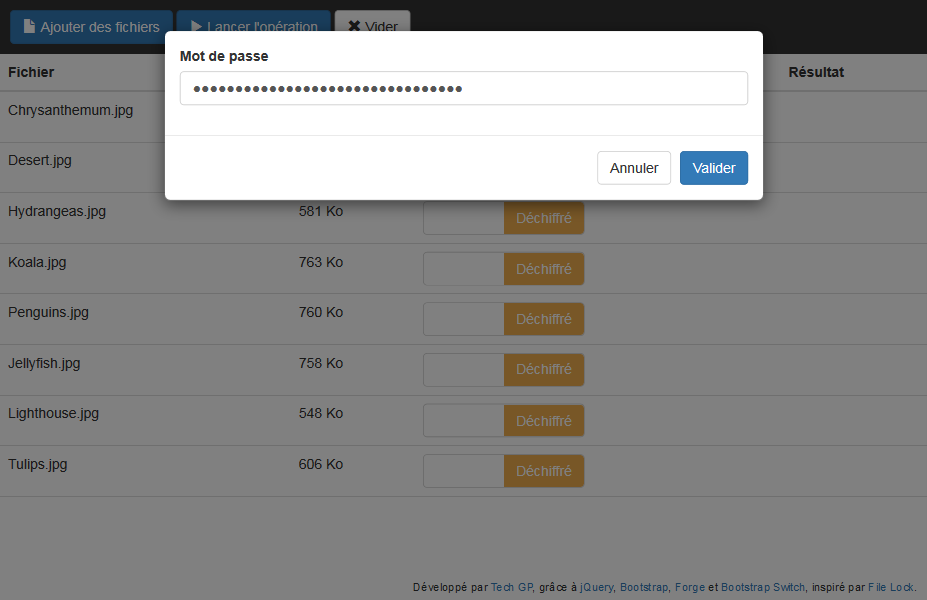
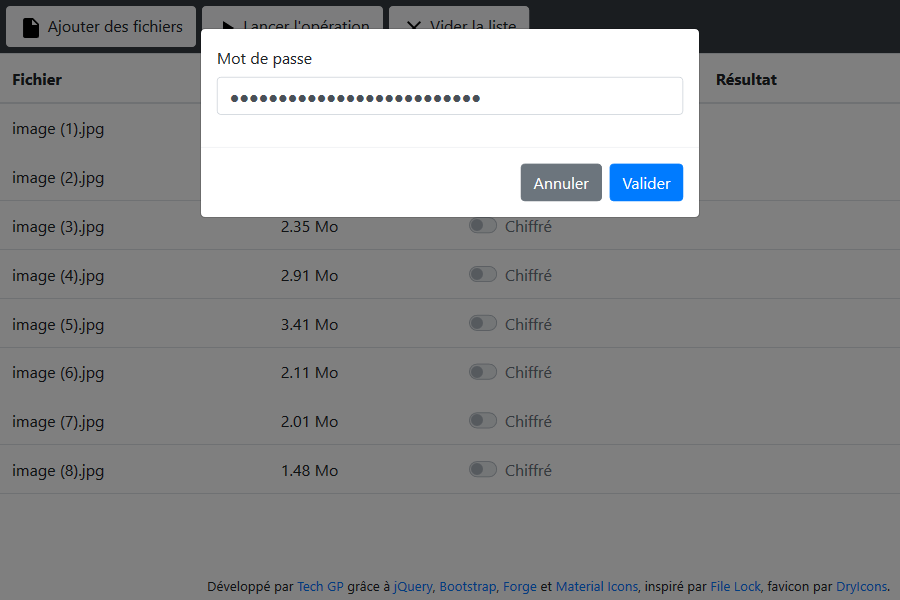
mise à jour de README.md et des captures d'écran + désactivation des switch qui ne servent qu'à informer

diff --git a/webapp/webapps-cipher.js b/webapp/webapps-cipher.js
@@ -205,7 +205,7 @@ function addFiles(files) {
 				+ '  <td class="size"></td>'
 				+ '  <td class="status">'
 				+ '    <div class="custom-control custom-switch">'
-				+ '      <input type="checkbox" class="custom-control-input">'
+				+ '      <input type="checkbox" disabled class="custom-control-input">'
 				+ '      <label class="custom-control-label">Chiffré</label>'
 				+ '    </div>'
 				+ '  </td>'

diff --git a/README.md b/README.md
@@ -8,13 +8,13 @@ File encryption using AES 256 bits in GCM mode
 
 L'application utilise les algorithmes suivants :
 
-- [PBKDF2](https://fr.wikipedia.org/wiki/PBKDF2), [HMAC](https://fr.wikipedia.org/wiki/Keyed-Hash_Message_Authentication_Code) et [SHA-256](https://fr.wikipedia.org/wiki/SHA-2#SHA-256) pour générer la clef à partir de la phrase de passe
+- [PBKDF2](https://fr.wikipedia.org/wiki/PBKDF2), [HMAC](https://fr.wikipedia.org/wiki/Keyed-Hash_Message_Authentication_Code) et [SHA-1](https://fr.wikipedia.org/wiki/SHA-1) pour générer la clef à partir de la phrase de passe
 - [AES 256 bits](https://fr.wikipedia.org/wiki/Advanced_Encryption_Standard) avec une clef de 256 bits, en mode [GCM](https://fr.wikipedia.org/wiki/Galois/Counter_Mode) pour le chiffrement
 
 Les librairies suivantes ont été utilisées pour cette application :
 
 - [Forge 0.9.1](https://github.com/digitalbazaar/forge)
-- [jQuery 3.4.1](https://jquery.com/)
+- [jQuery 3.5.0](https://jquery.com/)
 - [Bootstrap 4.4.1](https://getbootstrap.com/)
 - [Popper 1.16.1](https://popper.js.org/), dépendance de Bootstrap 4
 - [Material Icons](https://material.io/tools/icons) pour les boutons
@@ -72,10 +72,6 @@ Le résultat se trouve dans le dossier `dist`
 
 ![Récupération du résultat](./screenshots/webapps-cipher-4.png)
 
-### IHM adaptée aux petits écrans
-
-![IHM adaptée aux petits écrans](./screenshots/webapps-cipher-5.png)
-
 ## Licence
 
 Ce projet est distribué sous licence MIT, reproduite dans le fichier LICENSE ici présent.
@@ -95,4 +91,5 @@ Ce projet est distribué sous licence MIT, reproduite dans le fichier LICENSE ic
 - 2020-04-08 : mise à jour et optimisation de Forge (0.9.1) en créant une cible webpack personnalisée 
 - 2020-04-08 : suppression des dépendances vers Bootstrap Switch et Glyphicons, remplacée par des svg de Material Icons
 - 2020-04-08 : correction du téléchargement de fichiers déchiffrés, qui ajoutait une extension ".txt" non souhaitée
-- 2020-04-12 : passage du Service Worker en mode "server first" + mise à jour de jQuery (3.5.0) 
+- 2020-04-12 : passage du Service Worker en mode "server first" + mise à jour de jQuery (3.5.0)
+- 2020-04-12 : mise à jour de README.md et des captures d'écran + désactivation des switch qui ne servent qu'à informer
